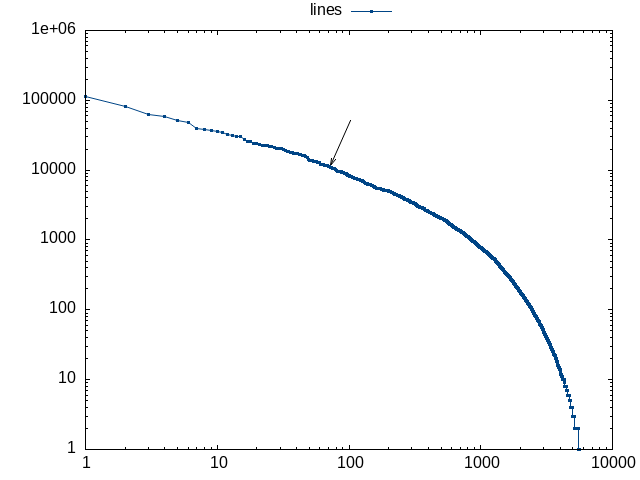
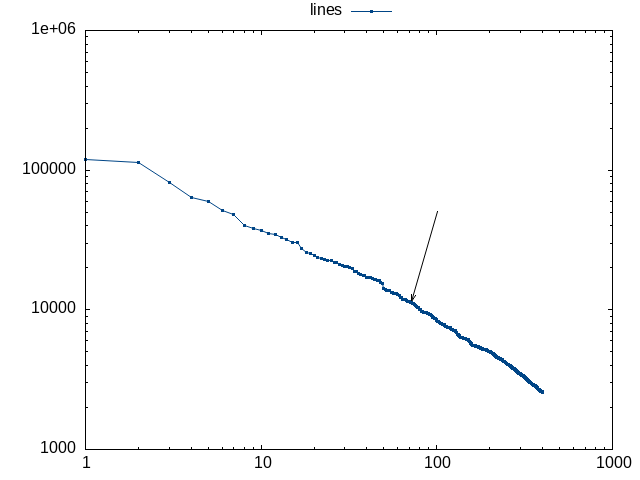
my_opensource_commits_stat_2025: fixup plots with index starting from 1

diff --git a/src/content/posts/my_opensource_commits_stat_2025.md b/src/content/posts/my_opensource_commits_stat_2025.md
@@ -77,7 +77,7 @@ $ ./authors.py ~/linux --commits linus/master \
         --skip_merge_commits --sortby lines --max_nr_authors 400 \
         --pr_for_plot |
     ../format_data/plot/plot.py 2025_changed_lines_per_author_linux_mm.png \
-        --xlog --ylog --pointsize 0.3 --gnuplot_arrow 2 8000 1 6661
+        --xlog --ylog --pointsize 0.3 --gnuplot_arrow 4 12000 2 6661
 ```
 
 The resuling plot is like below.  The arrow is showing where I am.  Note that
